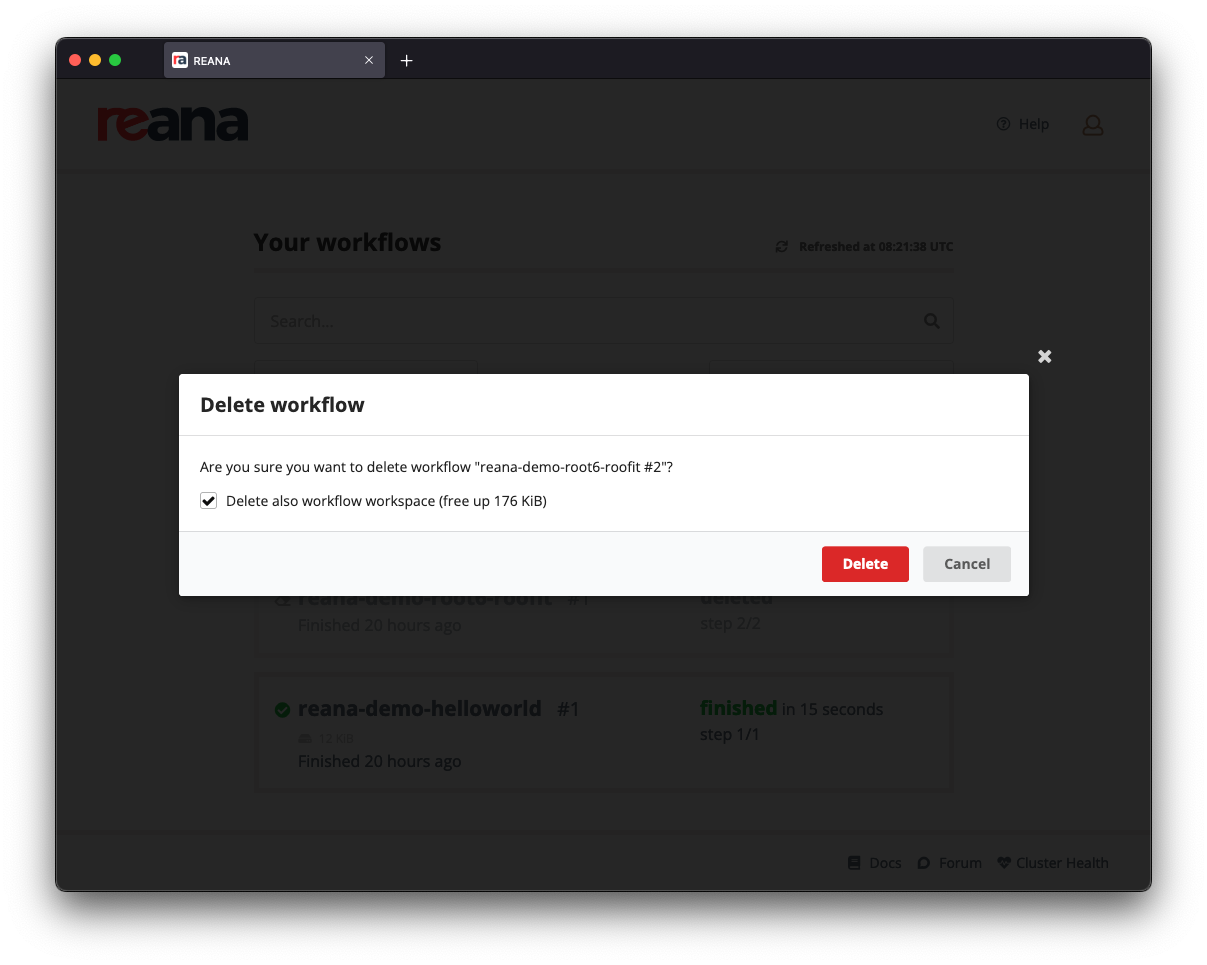
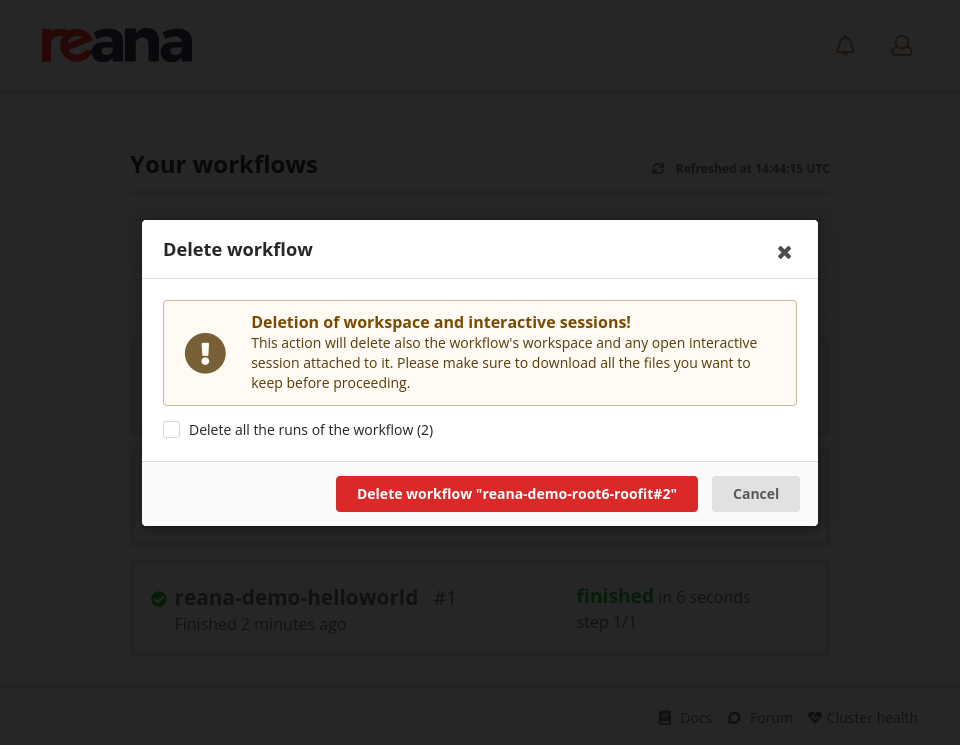
user-quotas: update image of workflow deletion modal
Closes reanahub/reana-ui#349

diff --git a/docs/advanced-usage/user-quotas/index.md b/docs/advanced-usage/user-quotas/index.md
@@ -108,11 +108,9 @@ workflow"_:
 
 !["Delete workflow" menu option](/images/ui-delete-workflow.png)
 
-Make sure that _"Delete also workflow workspace"_ is checked before confirming
-the deletion of the workflow, otherwise the workspace will be kept intact and
-you will not free up any space:
+Before confirming the deletion of the workflow, you can also decide whether to delete all the other workflow runs:
 
-![Dialog to confirm the deletion of a workflow](/images/ui-delete-workflow-confirmation.png)
+![Dialog to confirm the deletion of a workflow](/images/ui-delete-workflow-confirmation.png){.screenshot-browser-mockup}
 
 ### Prune the workspace
 
